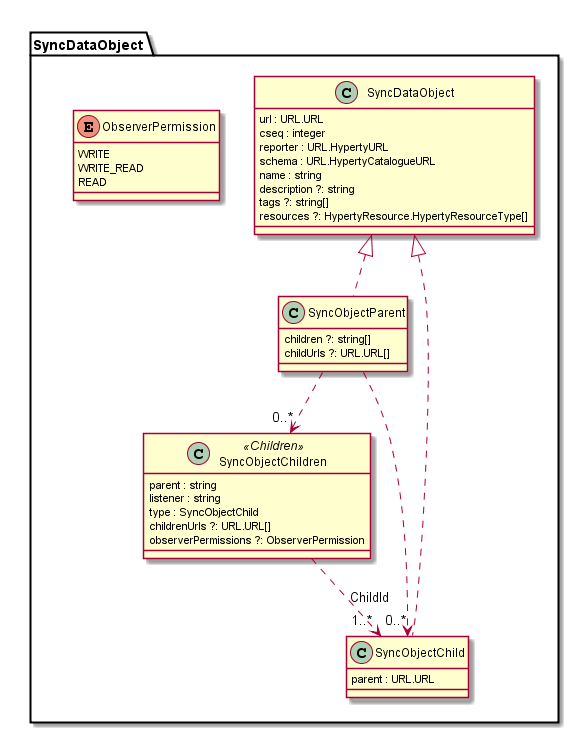
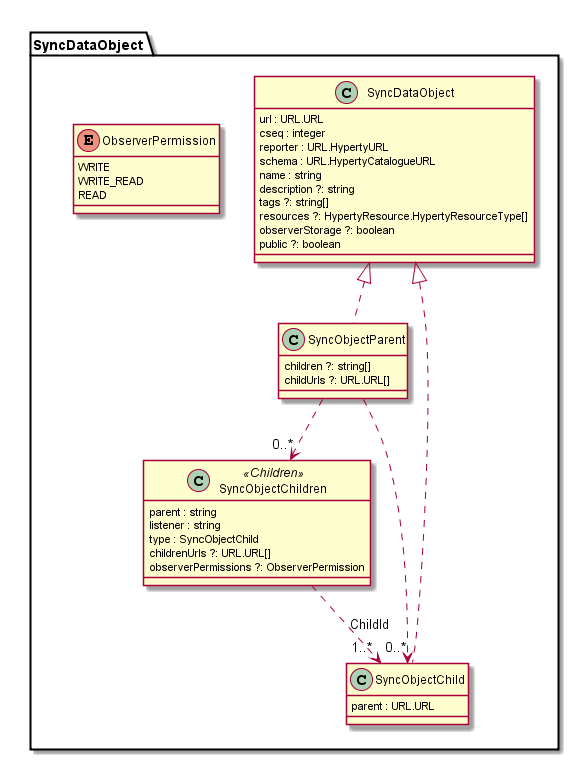
Updated Message and Data Sync datamodel with new attributes to handle data persistence.
Added new Datackup data model.

diff --git a/datamodel/core/data-synch/readme.md b/datamodel/core/data-synch/readme.md
@@ -20,6 +20,12 @@ Is the abstract class for any data object to synchronised.
 
 **tags** strings that can be used to classify the data object (optional)
 
+**resources**
+
+**observerStorage** is a boolean used by the Sync Manager of the Observer runtime to decide if Observer can store (`true`) or not (`false`) the data object.
+
+**public** is a boolean used by the Hyperty handling reading requests to decide who can read the Object.
+
 **SyncObjectParent**
 
 Is an Abstract class for composite SyncObject. It can either contain a set of containers of Childs called  SyncObjectChildren or a list of Childs (SyncOjectChild).

diff --git a/datamodel/core/message/readme.md b/datamodel/core/message/readme.md
@@ -36,6 +36,8 @@ The `MessageBody.auth` is used by the policy engine to set the Message was autho
 
 The `MessageBody.p2p` is used by the Runtime Registry to decide if a P2P Connection Stub should be deployed (`true`) or not (`false`).
 
+The `MessageBody.store` is used to decide if data associated with the message should be stored (`true`) or not (`false`).
+
 #### CreateMessageBody
 
 ##### value

diff --git a/datamodel/data-objects/databackup/readme.md b/datamodel/data-objects/databackup/readme.md
@@ -1,0 +1,5 @@
+## Databackup Object Model
+
+![Databackup Object Model](databackup-model.png)
+
+The Databackup model is comprised by a Databackup object that contains a list of DataItem. Each DataItem is a data value handled by the Storage Manager.
